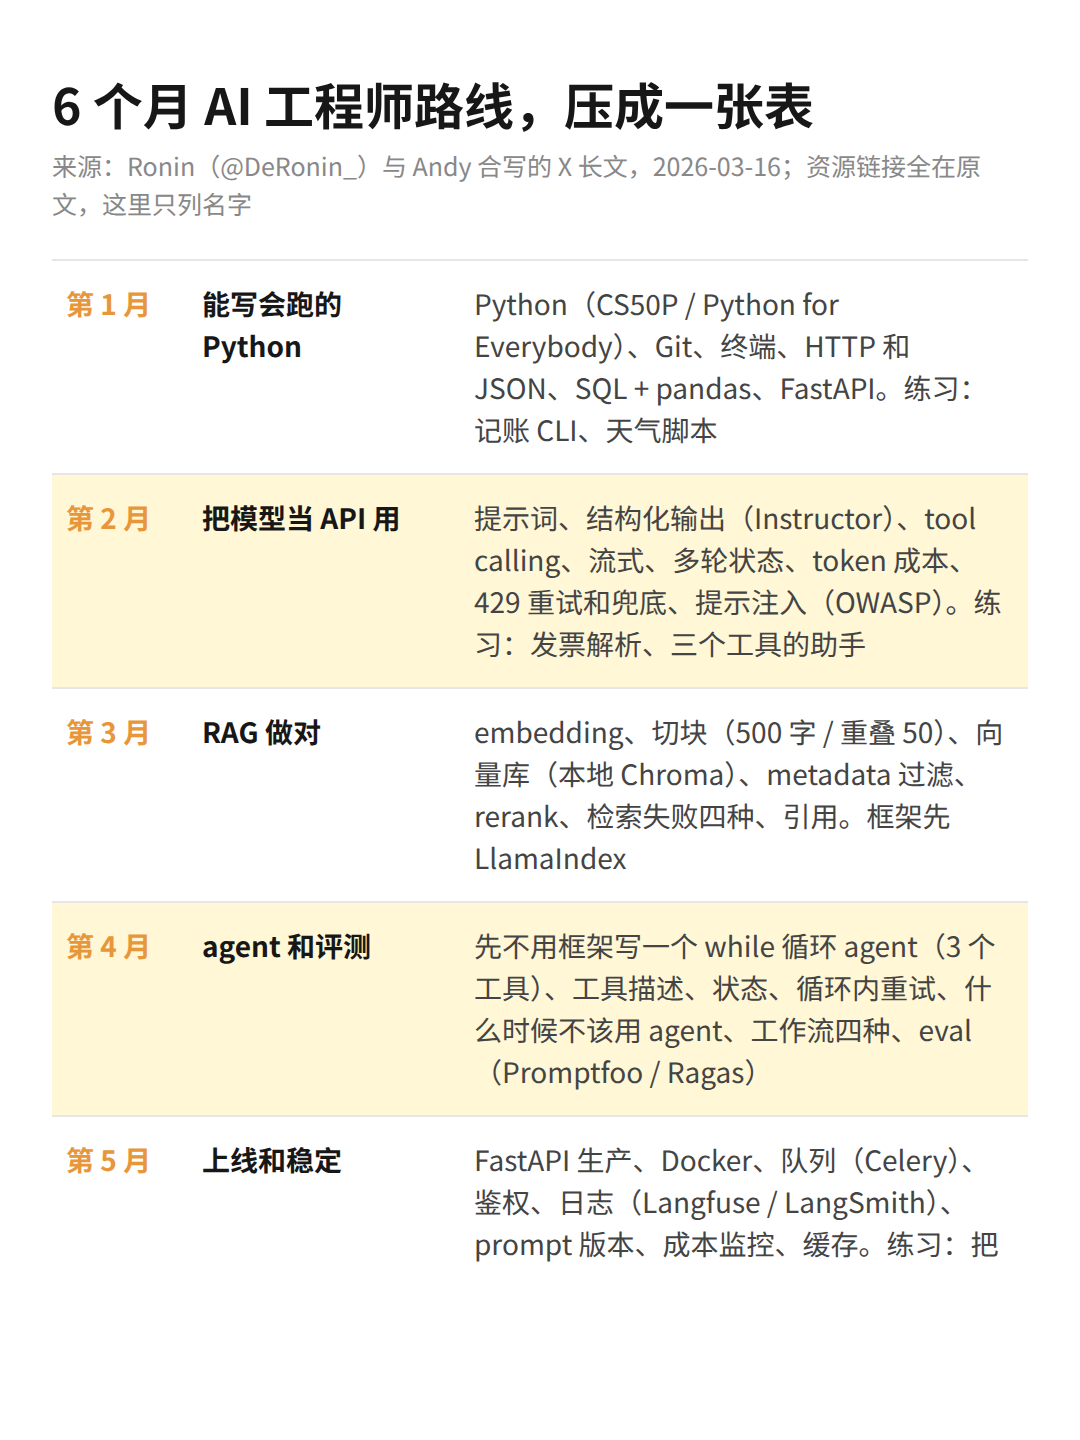
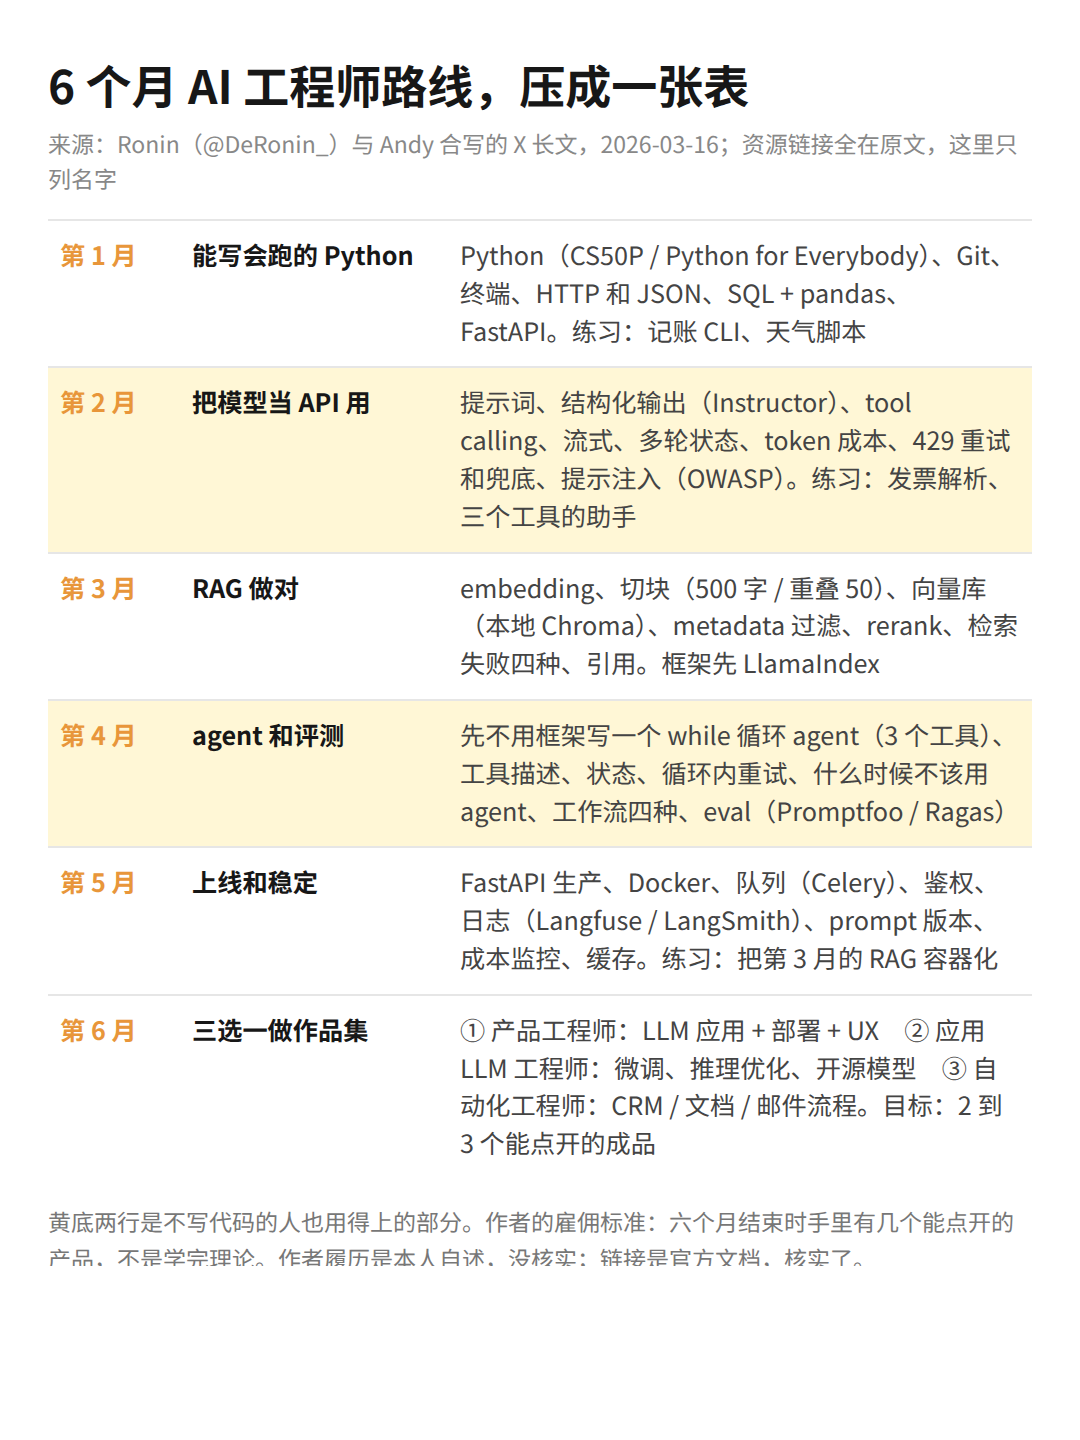
路线图稿：总结表字号调整
Claude-Session: https://claude.ai/code/session_014rxZDSRh87UTnpS8unQUqK

diff --git a/发布/2026-10-04_ai-engineer-roadmap/meme版/编辑用/summary.html b/发布/2026-10-04_ai-engineer-roadmap/meme版/编辑用/summary.html
@@ -1,15 +1,15 @@
 <!doctype html><html><head><meta charset="utf-8"><style>
 body{margin:0;width:540px;height:720px;background:#fff;font-family:-apple-system,"PingFang SC","Noto Sans CJK SC",sans-serif;color:#171717}
-.wrap{padding:34px 26px}
-h1{font-size:25px;margin:0 0 4px;font-weight:700}
-.sub{font-size:12.5px;color:#888;margin-bottom:18px;line-height:1.5}
-table{border-collapse:collapse;width:100%;font-size:14px}
-td{padding:11px 7px;border-top:1px solid #e6e6e6;vertical-align:top;line-height:1.5}
+.wrap{padding:26px 24px}
+h1{font-size:23px;margin:0 0 4px;font-weight:700}
+.sub{font-size:11.5px;color:#888;margin-bottom:12px;line-height:1.5}
+table{border-collapse:collapse;width:100%;font-size:12.6px}
+td{padding:8px 6px;border-top:1px solid #e6e6e6;vertical-align:top;line-height:1.5}
 td.m{width:54px;font-weight:700;color:#e8963a;white-space:nowrap}
 td.g{width:122px;font-weight:600}
 td.r{color:#444}
 tr.hi td{background:#fff7d6}
-.foot{font-size:12.5px;color:#777;margin-top:18px;line-height:1.6}
+.foot{font-size:11.5px;color:#777;margin-top:12px;line-height:1.6}
 </style></head><body><div class="wrap">
 <h1>6 个月 AI 工程师路线，压成一张表</h1>
 <div class="sub">来源：Ronin（@DeRonin_）与 Andy 合写的 X 长文，2026-03-16；资源链接全在原文，这里只列名字</div>
